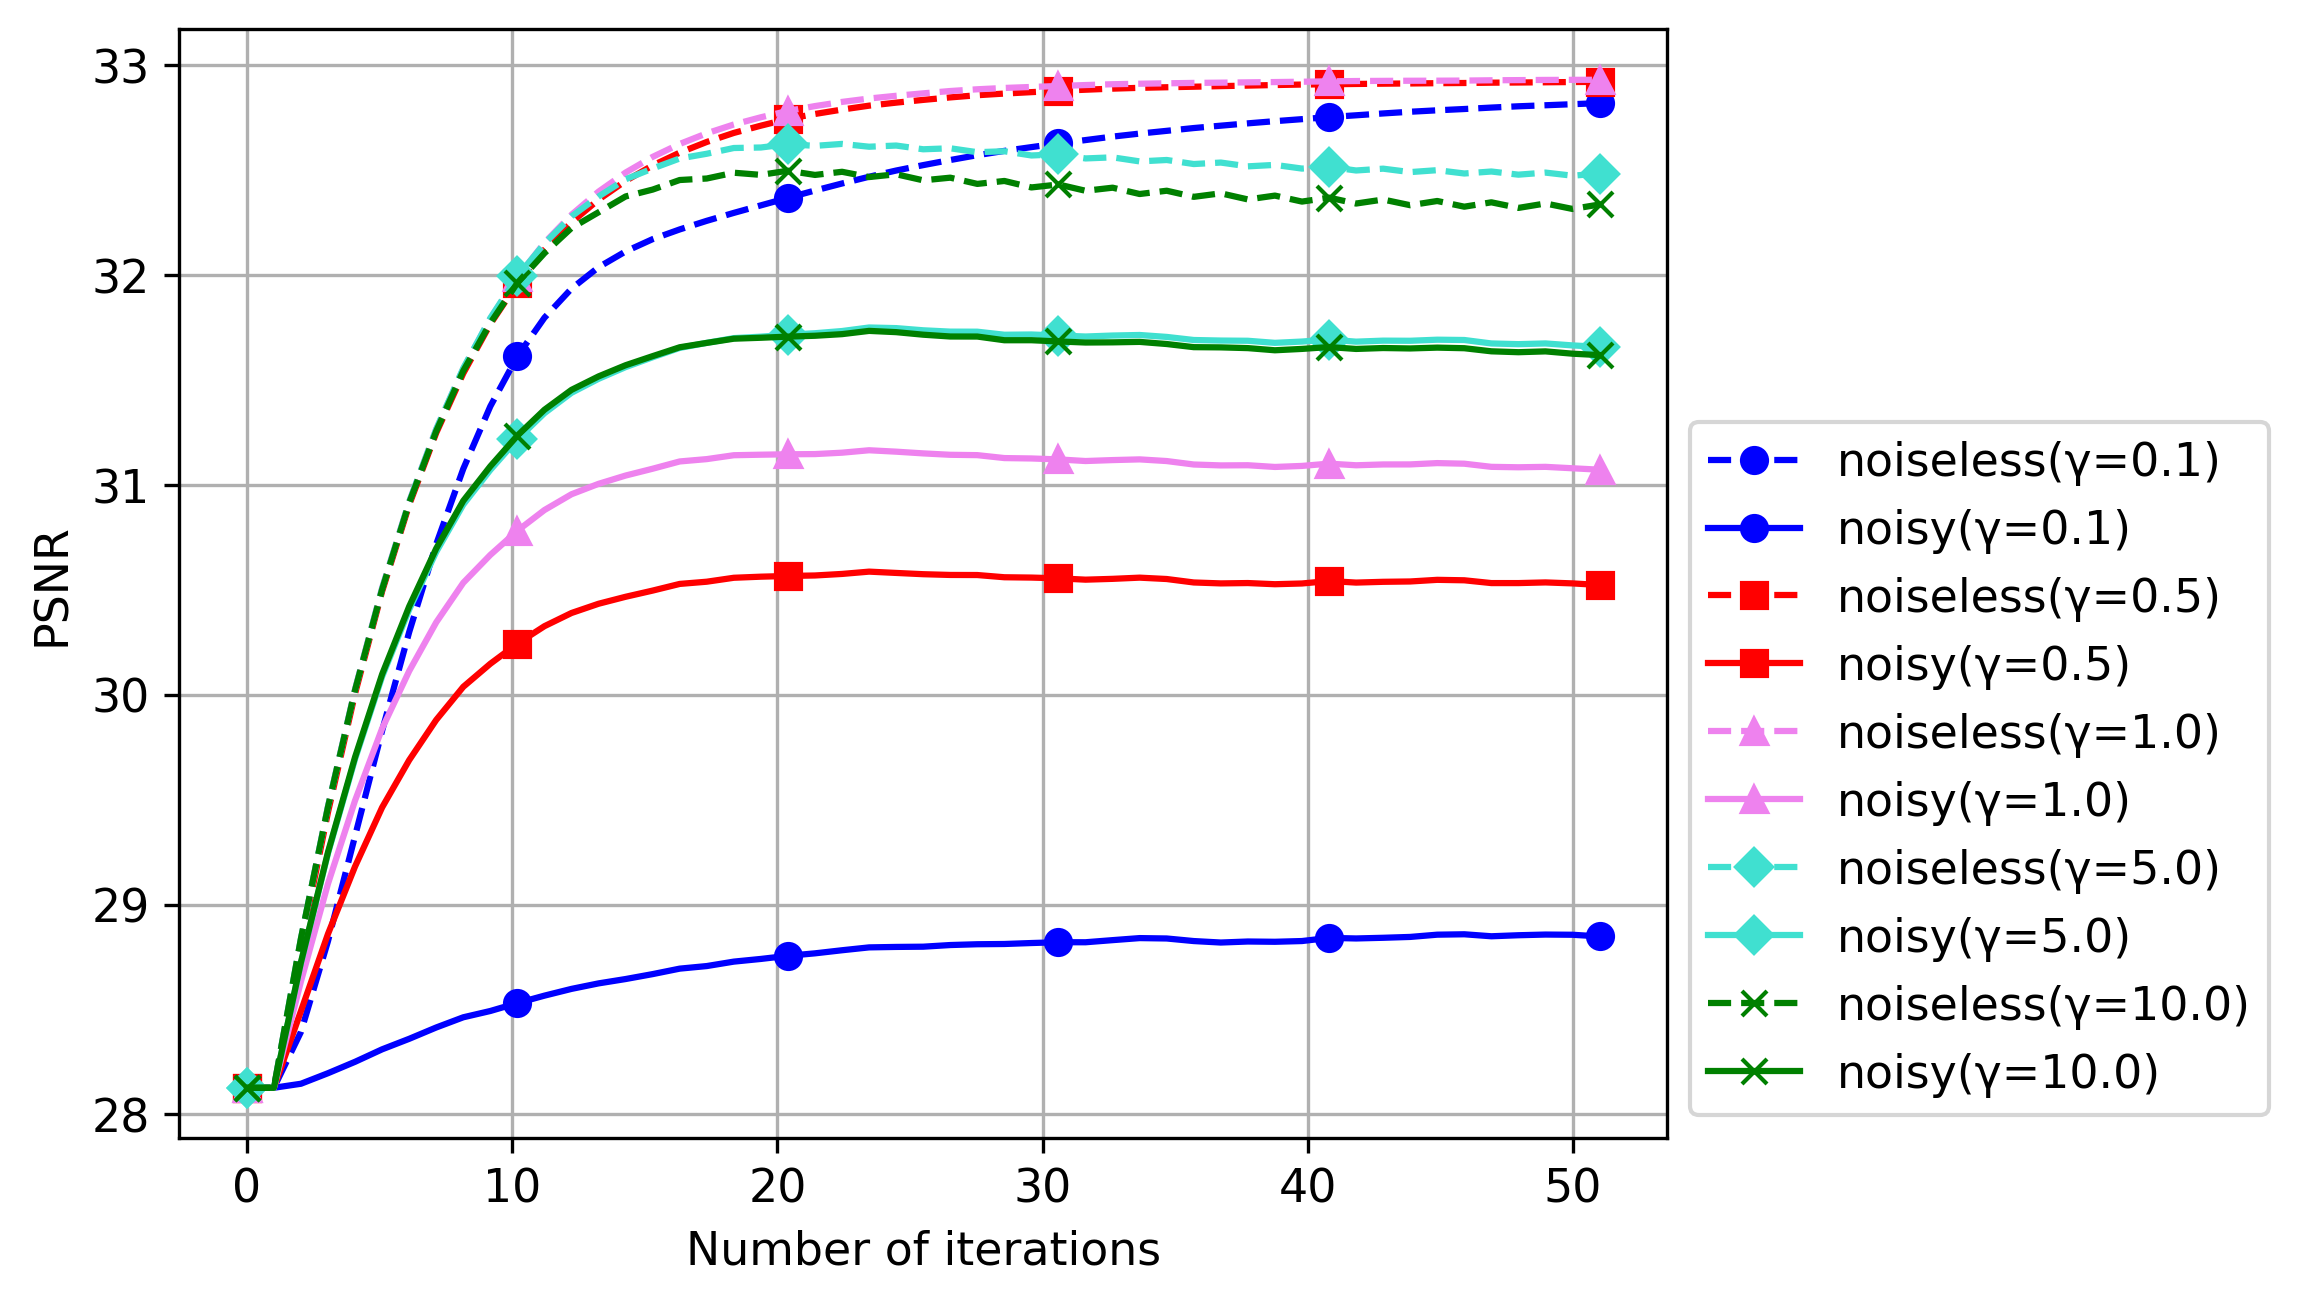
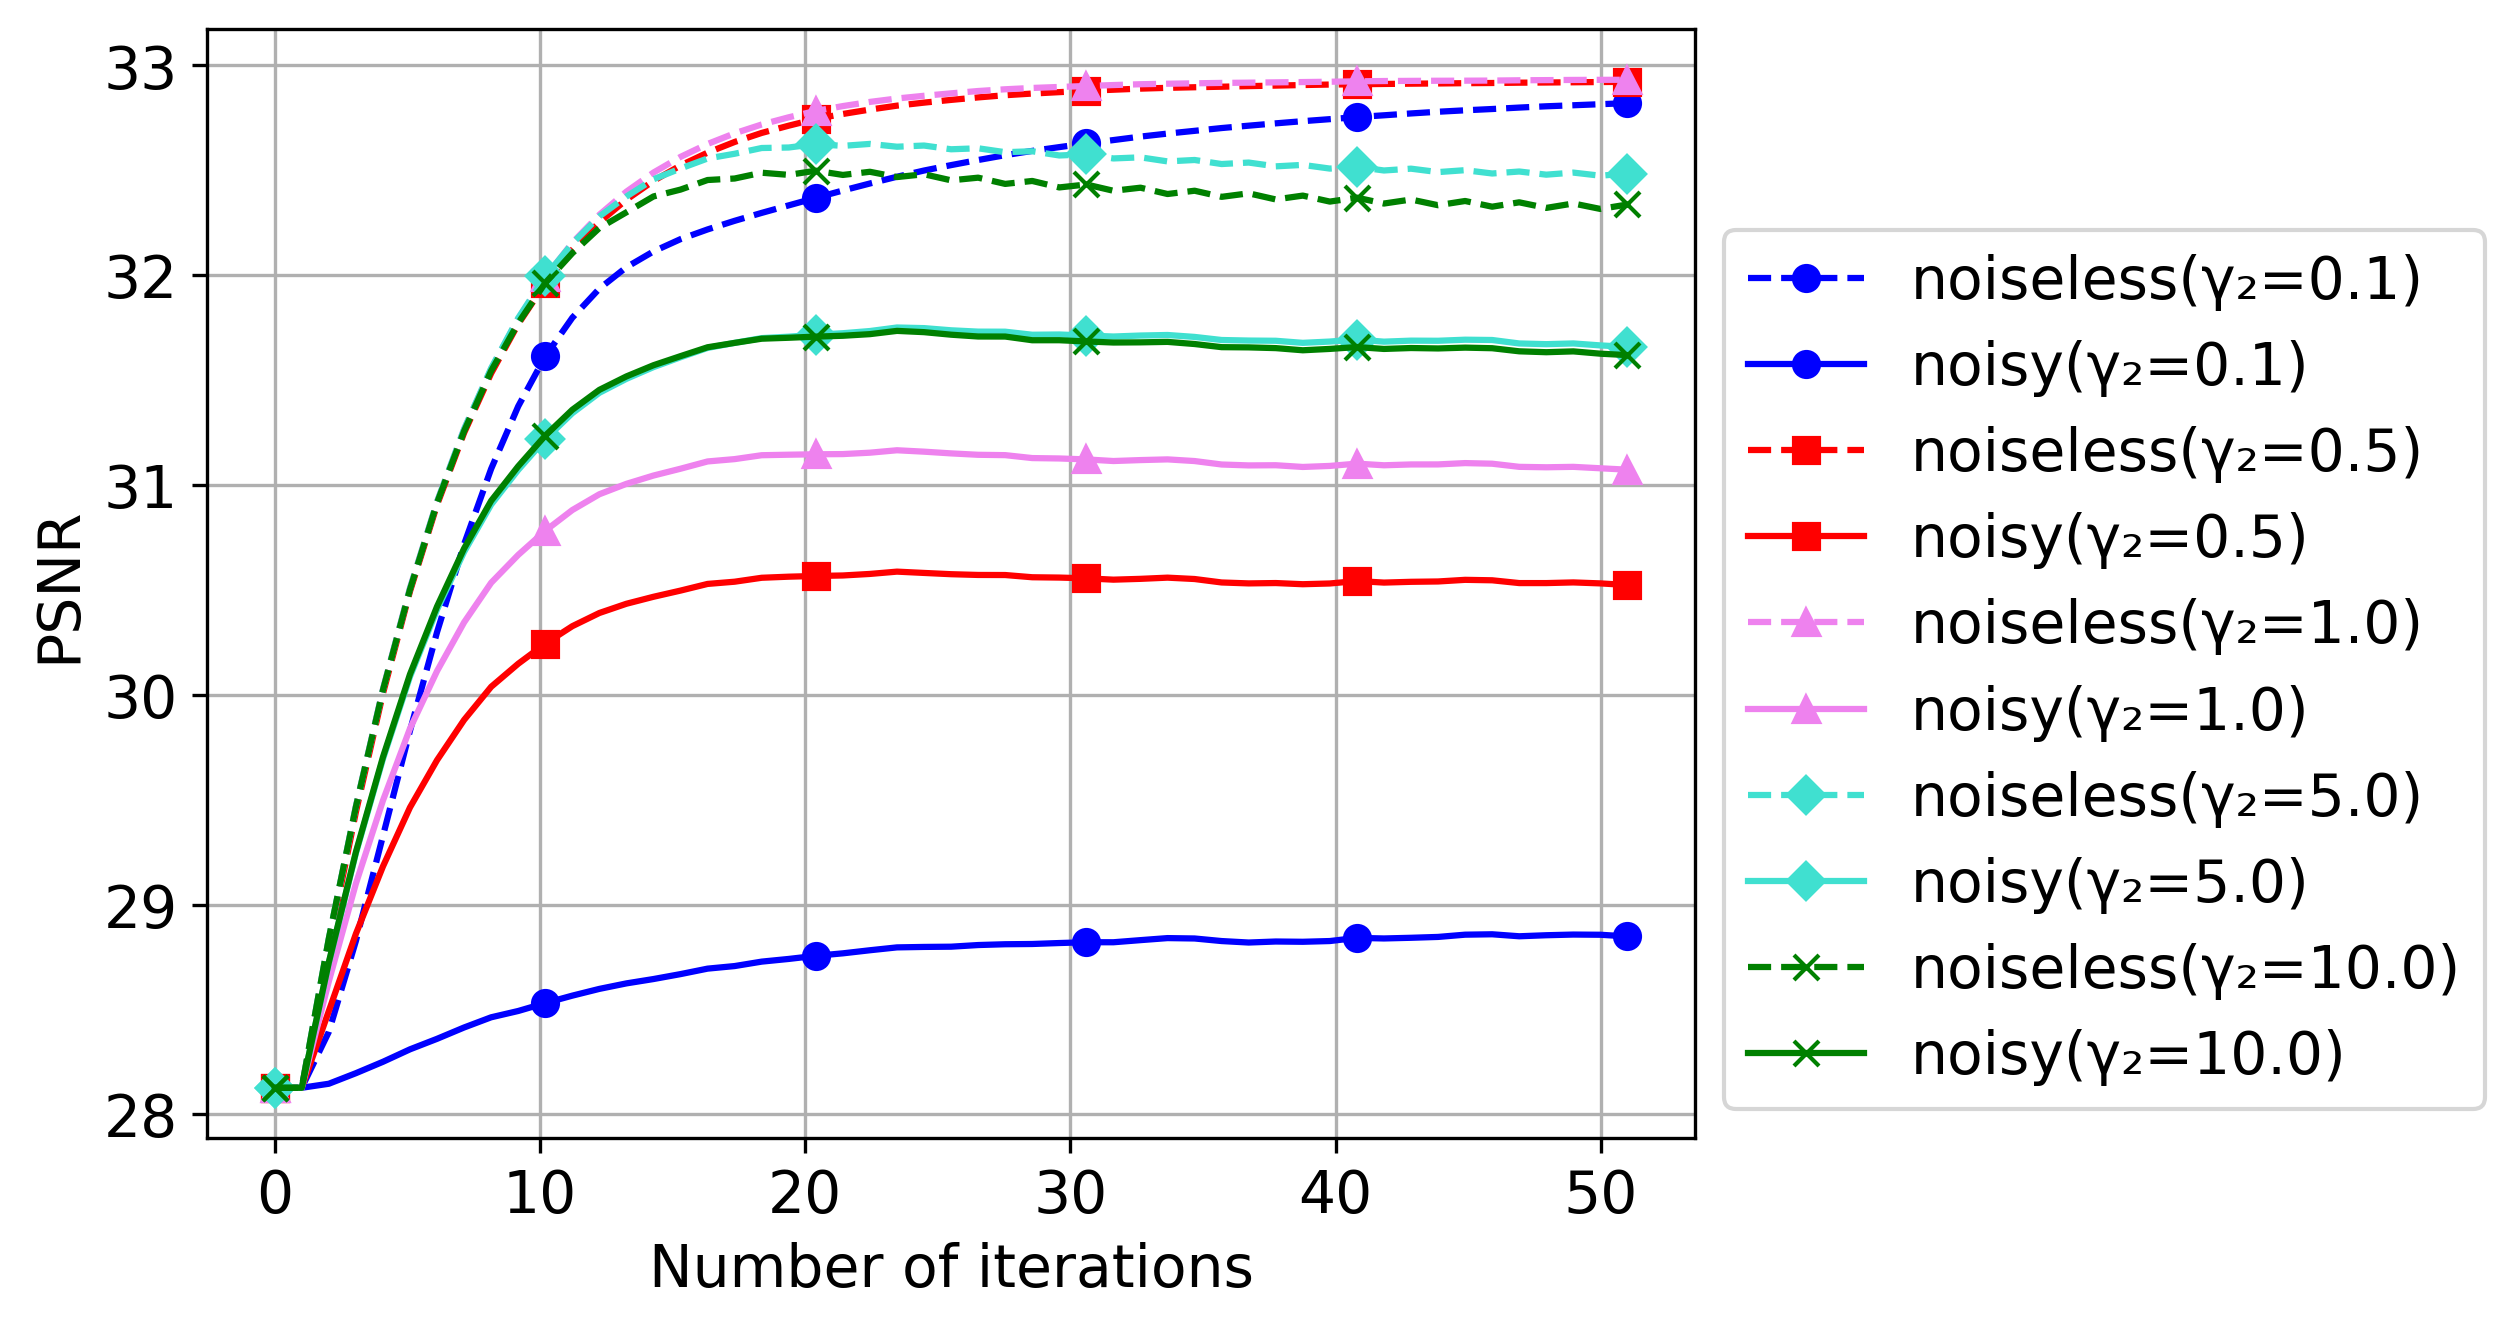
plotの表記やフォントサイズを変更

Changed region(s): [[0.0, 0.0, 0.9883, 0.9816], [0.1853, 0.0307, 0.2471, 0.0613], [0.9574, 0.1534, 0.9883, 0.184]]

diff --git a/plot-gam2.py b/plot-gam2.py
@@ -4,7 +4,7 @@ import cv2
 
 color_array=['blue','red','violet','turquoise','green']
 marker_array = ['o', 's', '^', 'D', 'x']  # 円, 四角, 上三角, ダイヤモンド, バツ
-plt.rcParams["font.size"] = 11
+plt.rcParams["font.size"] = 14
 plt.tight_layout()
 
 gam_num=5
@@ -25,15 +25,15 @@ x=np.linspace(0, EP+1, EP+1)
 
 for i in range(gam_num):
   print(i)
-  plt.plot(x, PSNR[i, :], color=color_array[i], label=f'noiseless(γ={GAM_array[i]})', linestyle='--', marker=marker_array[i], markevery=10)
-  plt.plot(x, PSNR_noise[i, :], color=color_array[i], label=f'noisy(γ={GAM_array[i]})', marker=marker_array[i], markevery=10)
+  plt.plot(x, PSNR[i, :], color=color_array[i], label=f'noiseless(γ₂={GAM_array[i]})', linestyle='--', marker=marker_array[i], markevery=10)
+  plt.plot(x, PSNR_noise[i, :], color=color_array[i], label=f'noisy(γ₂={GAM_array[i]})', marker=marker_array[i], markevery=10)
 #plt.title('ADMM_TV')
 plt.grid(which='major')
 plt.grid(which='minor')
 plt.xlabel('Number of iterations')
 plt.ylabel('PSNR')
 #plt.xticks([10,20,30,40,50],fontsize=9,color='black')
-plt.legend(loc='lower left', fontsize=11, bbox_to_anchor=(1, 0))
+plt.legend(loc='lower left', fontsize=14, bbox_to_anchor=(1, 0))
 #plt.ylim(21.5,35)
 plt.savefig('PSNR_plot.png', dpi=300, bbox_inches='tight')
 plt.show()
@@ -41,14 +41,14 @@ plt.show()
 #SSIMの推移を表示
 x=np.linspace(0, EP+1, EP+1)
 for i in range(gam_num):
-  plt.plot(x, SSIM[i, :], color=color_array[i], label=f'noiseless(γ={GAM_array[i]})',linestyle='--', marker=marker_array[i], markevery=10)
-  plt.plot(x, SSIM_noise[i, :], color=color_array[i], label=f'noisy(γ={GAM_array[i]})', marker=marker_array[i], markevery=10)
+  plt.plot(x, SSIM[i, :], color=color_array[i], label=f'noiseless(γ₂={GAM_array[i]})',linestyle='--', marker=marker_array[i], markevery=10)
+  plt.plot(x, SSIM_noise[i, :], color=color_array[i], label=f'noisy(γ₂={GAM_array[i]})', marker=marker_array[i], markevery=10)
 #plt.title('ADMM_TV')
 plt.grid(which='major')
 plt.grid(which='minor')
 plt.xlabel('Number of iterations')
 plt.ylabel('SSIM')
-plt.legend(loc='lower left', fontsize=12, bbox_to_anchor=(1, 0))
+plt.legend(loc='lower left', fontsize=14, bbox_to_anchor=(1, 0))
 #plt.ylim(0.35,0.95)
 plt.savefig('SSIM_plot.png', dpi=300, bbox_inches='tight')
 plt.show()
